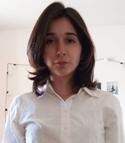
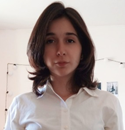
new course and change in profile picture

diff --git a/index.html b/index.html
@@ -40,7 +40,7 @@
           <h3>Información personal</h3>
           <div id="info-personal-contenido">
             <div class="panel">
-              <span>Nombre: Merlina Villeco</span>
+              <span>Nombre: Merlina Villecco</span>
               <span>Edad:22 años</span>
               <span>Fecha de nacimiento: 01/04/98</span>
             </div>
@@ -63,6 +63,9 @@
             id="curso-deuk"
             >Deuk - Curso de HTML y CSS desde cero.</a
           >
+          <br>
+          <br>
+          <a href="https://www.youtube.com/playlist?list=PL6hPvfzEEMDaKYAabXoDL7A-fZcwxvIqe" id="curso-deuk">Deividcoptero Programación - Curso HTML y CSS | Responsive Design.</a>
         </div>
   
         <!--contacto-->

diff --git a/style.css b/style.css
@@ -28,7 +28,11 @@ body {
   }
   
   .profile-img {
-    padding-right: 120px;
+    margin-right: 70px;
+    border-radius: 100px;
+    height: 130px;
+    width: 130px;
+    object-fit: cover;
   }
   
   #info-personal {
@@ -81,7 +85,6 @@ body {
   ul {
     display: inline-block;
     margin: 0;
-    padding: 0;
     position: relative;
   }
   
@@ -95,12 +98,10 @@ body {
     text-decoration: none;
     color: rgb(51, 51, 51);
     font-size: 15px;
-    transition: (1s);
   }
   
   a:hover {
     color: rgb(117, 117, 117);
-    font-size: 20px;
   }
   
   span {
